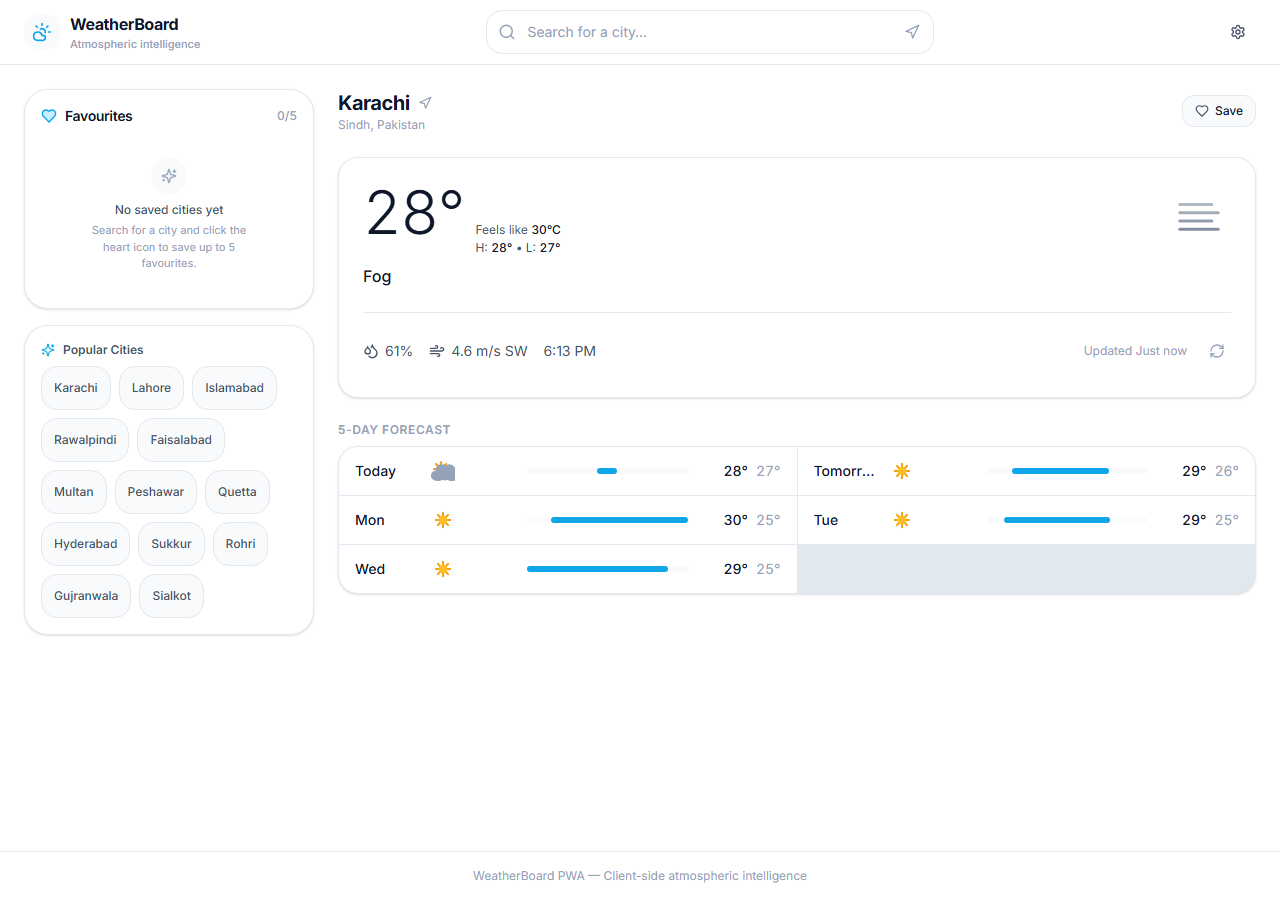
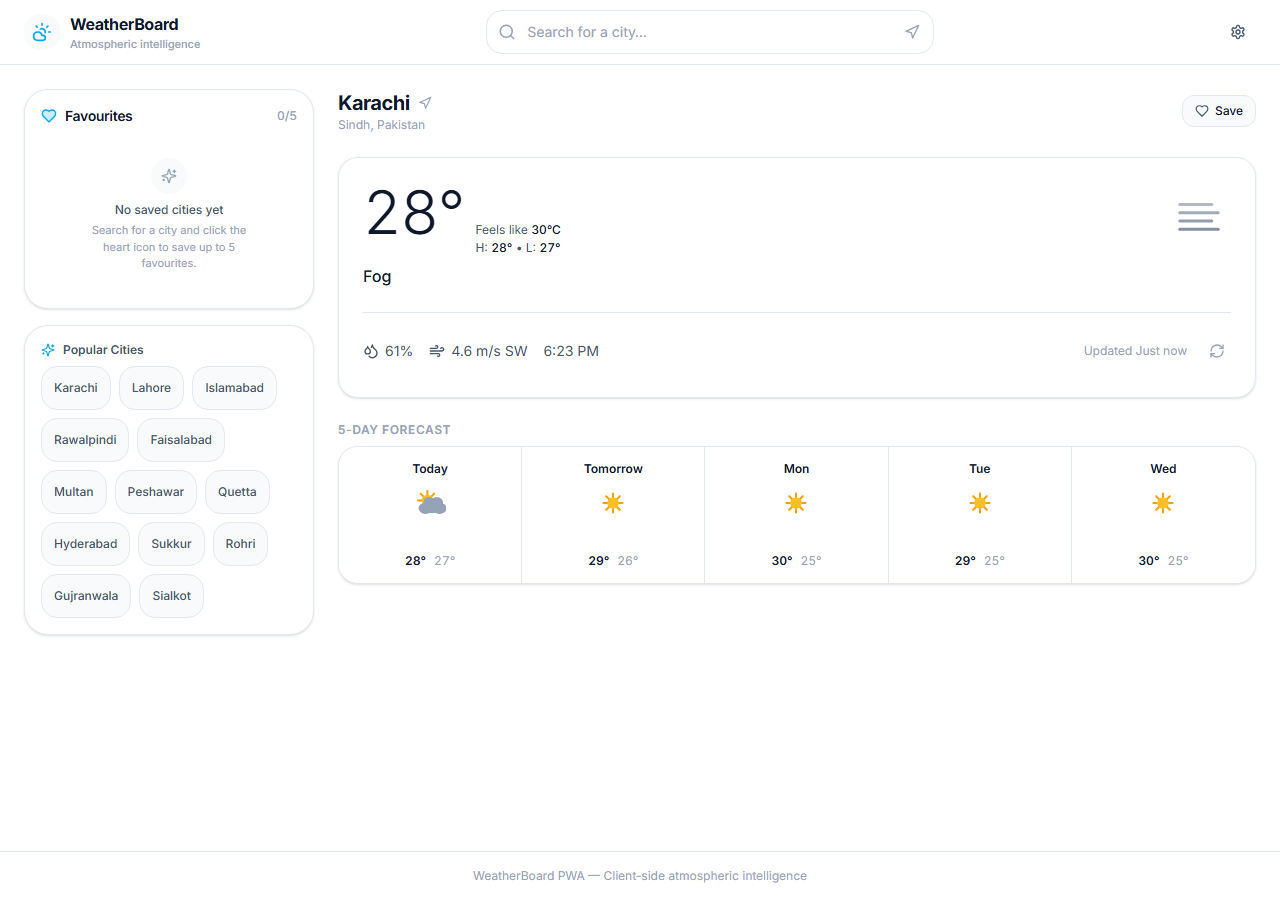
fix(layout): remove horizontal overflow and enlarge touch targets

diff --git a/src/components/weather/ForecastDay.tsx b/src/components/weather/ForecastDay.tsx
@@ -24,52 +24,89 @@ export function ForecastDay({
   );
 
   return (
-    <div
-      className={cn(
-        'flex items-center gap-2 sm:gap-3 px-3 sm:px-4 py-2.5 sm:py-3 text-sm transition-colors',
-        'hover:bg-[var(--color-surface-secondary)] min-w-0',
-      )}
-    >
-      {/* Day name */}
-      <span className="w-14 sm:w-16 shrink-0 text-xs sm:text-sm font-medium text-[var(--color-text-primary)] truncate">
-        {day.dayName}
-      </span>
+    <>
+      {/* Mobile view: detailed row with range bar */}
+      <div
+        className={cn(
+          'flex md:hidden items-center gap-2 sm:gap-3 px-3 sm:px-4 py-2.5 sm:py-3 text-sm transition-colors',
+          'hover:bg-[var(--color-surface-secondary)] min-w-0',
+        )}
+      >
+        {/* Day name */}
+        <span className="w-20 shrink-0 text-xs sm:text-sm font-medium text-[var(--color-text-primary)]">
+          {day.dayName}
+        </span>
 
-      {/* Icon */}
-      <div className="shrink-0">
-        <WeatherIcon condition={day.condition} isDay={day.isDay} size={24} />
-      </div>
+        {/* Icon */}
+        <div className="shrink-0">
+          <WeatherIcon condition={day.condition} isDay={day.isDay} size={24} />
+        </div>
 
-      {/* Precip chance */}
-      <div className="w-10 sm:w-12 shrink-0">
-        {day.precipChance > 0 ? (
-          <span className="inline-flex items-center gap-0.5 text-[11px] sm:text-xs text-primary-500 font-medium">
-            <Droplet className="h-3 w-3 fill-primary-500/20" />
-            <span>{day.precipChance}%</span>
+        {/* Precip chance */}
+        <div className="w-10 sm:w-12 shrink-0">
+          {day.precipChance > 0 ? (
+            <span className="inline-flex items-center gap-0.5 text-[11px] sm:text-xs text-primary-500 font-medium">
+              <Droplet className="h-3 w-3 fill-primary-500/20" />
+              <span>{day.precipChance}%</span>
+            </span>
+          ) : null}
+        </div>
+
+        {/* Temperature range bar */}
+        <div className="relative h-1.5 flex-1 min-w-[32px] sm:min-w-[48px] rounded-full bg-[var(--color-surface-secondary)]">
+          <div
+            className="absolute inset-y-0 rounded-full bg-primary-500"
+            style={{
+              left: `${left}%`,
+              width: `${width}%`,
+            }}
+          />
+        </div>
+
+        {/* High & Low grouped closely together */}
+        <div className="flex w-16 sm:w-20 shrink-0 items-center justify-end gap-1.5 sm:gap-2 text-right tabular-nums text-xs sm:text-sm">
+          <span className="font-medium text-[var(--color-text-primary)]">
+            {formatTemperature(day.high, unit)}
           </span>
-        ) : null}
+          <span className="text-[var(--color-text-tertiary)]">
+            {formatTemperature(day.low, unit)}
+          </span>
+        </div>
       </div>
 
-      {/* Temperature range bar */}
-      <div className="relative h-1.5 flex-1 min-w-[32px] sm:min-w-[48px] rounded-full bg-[var(--color-surface-secondary)]">
-        <div
-          className="absolute inset-y-0 rounded-full bg-primary-500"
-          style={{
-            left: `${left}%`,
-            width: `${width}%`,
-          }}
-        />
-      </div>
+      {/* Tablet & Desktop view: clean forecast card in row / grid */}
+      <div
+        className={cn(
+          'hidden md:flex flex-col items-center justify-between p-3.5 text-center transition-colors',
+          'hover:bg-[var(--color-surface-secondary)] h-full min-w-0',
+        )}
+      >
+        <span className="text-xs font-semibold text-[var(--color-text-primary)]">
+          {day.dayName}
+        </span>
 
-      {/* High & Low grouped closely together */}
-      <div className="flex w-16 sm:w-20 shrink-0 items-center justify-end gap-1.5 sm:gap-2 text-right tabular-nums text-xs sm:text-sm">
-        <span className="font-medium text-[var(--color-text-primary)]">
-          {formatTemperature(day.high, unit)}
-        </span>
-        <span className="text-[var(--color-text-tertiary)]">
-          {formatTemperature(day.low, unit)}
-        </span>
+        <div className="my-2.5">
+          <WeatherIcon condition={day.condition} isDay={day.isDay} size={32} />
+        </div>
+
+        <div className="h-4 mb-2 flex items-center justify-center">
+          {day.precipChance > 0 ? (
+            <span className="inline-flex items-center gap-0.5 text-[11px] text-primary-500 font-medium">
+              <Droplet className="h-3 w-3 fill-primary-500/20" />
+              <span>{day.precipChance}%</span>
+            </span>
+          ) : null}
+        </div>
+
+        <div className="flex items-center justify-center gap-2 tabular-nums text-xs">
+          <span className="font-semibold text-[var(--color-text-primary)]">
+            {formatTemperature(day.high, unit)}
+          </span>
+          <span className="text-[var(--color-text-tertiary)]">
+            {formatTemperature(day.low, unit)}
+          </span>
+        </div>
       </div>
-    </div>
+    </>
   );
 }

diff --git a/src/components/ui/Dialog.tsx b/src/components/ui/Dialog.tsx
@@ -41,7 +41,7 @@ const DialogContent = forwardRef<
     <DialogPrimitive.Content ref={ref} asChild {...props}>
       <motion.div
         className={cn(
-          'fixed inset-0 z-50 flex items-center justify-center p-4 sm:p-6',
+          'fixed inset-0 z-50 flex items-center justify-center p-3 sm:p-4 md:p-6 overflow-y-auto overscroll-contain',
         )}
         initial={{ opacity: 0 }}
         animate={{ opacity: 1 }}
@@ -50,11 +50,13 @@ const DialogContent = forwardRef<
       >
         <motion.div
           className={cn(
-            'relative w-full max-w-[480px] max-w-[calc(100vw-2rem)]',
-            'rounded-xl border border-[var(--color-border)]',
+            'relative my-auto w-full max-w-[480px] max-w-[calc(100vw-1.5rem)]',
+            'max-h-[calc(100dvh-1.5rem)] sm:max-h-[88dvh]',
+            'overflow-y-auto overscroll-contain',
+            'rounded-2xl sm:rounded-xl border border-[var(--color-border)]',
             'bg-[var(--color-surface)] text-[var(--color-text-primary)]',
-            'shadow-sm',
-            'p-5 sm:p-6',
+            'shadow-lg',
+            'p-4 sm:p-6',
             'focus:outline-none',
             className,
           )}
@@ -64,16 +66,16 @@ const DialogContent = forwardRef<
           transition={{ duration: 0.2, ease: 'easeOut' }}
           onClick={(e) => e.stopPropagation()}
         >
-          {children}
           {showClose && (
             <DialogPrimitive.Close
-              className="absolute right-2 top-2 sm:right-3 sm:top-3 min-h-11 min-w-11 flex items-center justify-center rounded-md text-[var(--color-text-tertiary)] hover:text-[var(--color-text-primary)] hover:bg-[var(--color-surface-secondary)] transition-colors focus-visible:outline-none focus-visible:ring-2 focus-visible:ring-primary-500/40"
+              className="sticky top-0 float-right -mr-1 -mt-1 sm:-mr-2 sm:-mt-2 z-20 min-h-11 min-w-11 flex items-center justify-center rounded-md bg-[var(--color-surface)]/90 backdrop-blur-sm text-[var(--color-text-tertiary)] hover:text-[var(--color-text-primary)] hover:bg-[var(--color-surface-secondary)] transition-colors focus-visible:outline-none focus-visible:ring-2 focus-visible:ring-primary-500/40"
               aria-label="Close dialog"
             >
               <X className="h-4 w-4" aria-hidden="true" />
               <span className="sr-only">Close</span>
             </DialogPrimitive.Close>
           )}
+          {children}
         </motion.div>
       </motion.div>
     </DialogPrimitive.Content>

diff --git a/src/components/settings/SettingsDialog.tsx b/src/components/settings/SettingsDialog.tsx
@@ -43,33 +43,33 @@ export function SettingsDialog({
 }: SettingsDialogProps) {
   return (
     <Dialog open={open} onOpenChange={onOpenChange}>
-      <DialogContent className="max-w-md p-6">
-        <div>
-          <DialogTitle className="text-lg font-semibold tracking-tight">Preferences</DialogTitle>
+      <DialogContent className="max-w-md">
+        <div className="pr-10">
+          <DialogTitle className="text-base sm:text-lg font-semibold tracking-tight">Preferences</DialogTitle>
           <DialogDescription className="text-xs text-[var(--color-text-secondary)] mt-0.5">
             Configure appearance, measurement units, and daily reminders.
           </DialogDescription>
         </div>
 
-        <div className="mt-6 space-y-6">
+        <div className="mt-4 sm:mt-6 space-y-4 sm:space-y-6">
           {/* Theme */}
-          <div className="flex flex-col sm:flex-row sm:items-center justify-between gap-2.5">
+          <div className="flex flex-col sm:flex-row sm:items-center justify-between gap-2">
             <div>
               <p className="text-sm font-medium text-[var(--color-text-primary)]">Theme</p>
               <p className="text-xs text-[var(--color-text-tertiary)]">Select interface color scheme</p>
             </div>
-            <ThemeToggle theme={theme} onChange={onThemeChange} className="w-full sm:w-auto justify-center" />
+            <ThemeToggle theme={theme} onChange={onThemeChange} className="w-full sm:w-auto" />
           </div>
 
           <div className="border-t border-[var(--color-border)]" />
 
           {/* Unit */}
-          <div className="flex flex-col sm:flex-row sm:items-center justify-between gap-2.5">
+          <div className="flex flex-col sm:flex-row sm:items-center justify-between gap-2">
             <div>
               <p className="text-sm font-medium text-[var(--color-text-primary)]">Temperature Units</p>
               <p className="text-xs text-[var(--color-text-tertiary)]">Convert all temperatures & wind speed</p>
             </div>
-            <UnitToggle unit={unit} onChange={onUnitChange} className="w-full sm:w-auto justify-center" />
+            <UnitToggle unit={unit} onChange={onUnitChange} className="w-full sm:w-auto" />
           </div>
 
           <div className="border-t border-[var(--color-border)]" />

diff --git a/src/components/settings/ThemeToggle.tsx b/src/components/settings/ThemeToggle.tsx
@@ -15,9 +15,9 @@ export const ThemeToggle: React.FC<ThemeToggleProps> = ({
   className,
 }) => {
   const options: { value: ThemeMode; label: string; icon: React.ReactNode }[] = [
-    { value: 'light', label: 'Light', icon: <Sun className="h-4 w-4" /> },
-    { value: 'dark', label: 'Dark', icon: <Moon className="h-4 w-4" /> },
-    { value: 'system', label: 'System', icon: <Monitor className="h-4 w-4" /> },
+    { value: 'light', label: 'Light', icon: <Sun className="h-4 w-4 shrink-0" /> },
+    { value: 'dark', label: 'Dark', icon: <Moon className="h-4 w-4 shrink-0" /> },
+    { value: 'system', label: 'System', icon: <Monitor className="h-4 w-4 shrink-0" /> },
   ];
 
   return (
@@ -25,7 +25,7 @@ export const ThemeToggle: React.FC<ThemeToggleProps> = ({
       role="radiogroup"
       aria-label="Theme selection"
       className={cn(
-        'inline-flex p-1 gap-2 rounded-xl bg-[var(--color-surface-secondary)] border border-[var(--color-border)]',
+        'flex w-full sm:w-auto p-1 gap-1 sm:gap-2 rounded-xl bg-[var(--color-surface-secondary)] border border-[var(--color-border)]',
         className,
       )}
     >
@@ -39,7 +39,7 @@ export const ThemeToggle: React.FC<ThemeToggleProps> = ({
             type="button"
             onClick={() => onChange(option.value)}
             className={cn(
-              'flex min-h-11 min-w-11 sm:min-h-9 items-center justify-center gap-2 rounded-lg px-3 py-2 text-xs font-medium transition-all outline-none',
+              'flex-1 min-w-0 flex min-h-11 sm:min-h-9 items-center justify-center gap-1.5 sm:gap-2 rounded-lg px-2 sm:px-3 py-2 text-xs font-medium transition-all outline-none',
               isSelected
                 ? 'bg-[var(--color-surface)] text-primary-500 shadow-sm border border-[var(--color-border)]'
                 : 'text-[var(--color-text-secondary)] hover:text-[var(--color-text-primary)]',
@@ -47,7 +47,7 @@ export const ThemeToggle: React.FC<ThemeToggleProps> = ({
             )}
           >
             {option.icon}
-            <span>{option.label}</span>
+            <span className="truncate">{option.label}</span>
           </button>
         );
       })}

diff --git a/src/components/settings/ReminderSettings.tsx b/src/components/settings/ReminderSettings.tsx
@@ -172,14 +172,14 @@ export function ReminderSettingsComponent({
             />
           </div>
 
-          <div className="flex flex-col sm:flex-row sm:items-center justify-between gap-2 pt-1">
+          <div className="flex flex-col sm:flex-row sm:items-center justify-between gap-2.5 pt-1">
             <span className="text-xs text-[var(--color-text-tertiary)]">Preview notification</span>
             <Button
               variant="secondary"
               size="sm"
               loading={testSending}
               onClick={handleSendTest}
-              className="min-h-11 min-w-11 px-3 text-xs"
+              className="min-h-11 min-w-11 px-3 text-xs w-full sm:w-auto justify-center"
             >
               <Send className="mr-1.5 h-3.5 w-3.5 shrink-0" />
               <span>Send test notification</span>
@@ -209,10 +209,10 @@ export function ReminderSettingsComponent({
             <button
               type="button"
               onClick={() => setShowTroubleshooting((prev) => !prev)}
-              className="min-h-11 flex items-center gap-1.5 text-xs text-[var(--color-text-tertiary)] hover:text-[var(--color-text-secondary)] transition-colors py-2"
+              className="min-h-11 flex items-center gap-1.5 text-xs text-[var(--color-text-tertiary)] hover:text-[var(--color-text-secondary)] transition-colors py-2 text-left w-full"
             >
               <HelpCircle className="h-3.5 w-3.5 shrink-0" />
-              <span>Notification not appearing? Troubleshooting tips</span>
+              <span className="text-left">Notification not appearing? Troubleshooting tips</span>
             </button>
 
             {showTroubleshooting && (

diff --git a/src/components/settings/UnitToggle.tsx b/src/components/settings/UnitToggle.tsx
@@ -23,7 +23,7 @@ export const UnitToggle: React.FC<UnitToggleProps> = ({
       role="radiogroup"
       aria-label="Temperature unit selection"
       className={cn(
-        'inline-flex p-1 gap-2 rounded-xl bg-[var(--color-surface-secondary)] border border-[var(--color-border)]',
+        'flex w-full sm:w-auto p-1 gap-1 sm:gap-2 rounded-xl bg-[var(--color-surface-secondary)] border border-[var(--color-border)]',
         className,
       )}
     >
@@ -37,7 +37,7 @@ export const UnitToggle: React.FC<UnitToggleProps> = ({
             type="button"
             onClick={() => onChange(option.value)}
             className={cn(
-              'flex min-h-11 min-w-11 sm:min-h-9 items-center justify-center gap-1.5 rounded-lg px-4 py-2 text-xs font-medium transition-all outline-none',
+              'flex-1 min-w-0 flex min-h-11 sm:min-h-9 items-center justify-center gap-1.5 rounded-lg px-3 sm:px-4 py-2 text-xs font-medium transition-all outline-none',
               isSelected
                 ? 'bg-[var(--color-surface)] text-primary-500 shadow-sm border border-[var(--color-border)]'
                 : 'text-[var(--color-text-secondary)] hover:text-[var(--color-text-primary)]',
@@ -45,7 +45,7 @@ export const UnitToggle: React.FC<UnitToggleProps> = ({
             )}
           >
             <span className="font-semibold text-sm">{option.symbol}</span>
-            <span>{option.label}</span>
+            <span className="truncate">{option.label}</span>
           </button>
         );
       })}

diff --git a/src/components/weather/ForecastList.tsx b/src/components/weather/ForecastList.tsx
@@ -24,9 +24,9 @@ export function ForecastList({ daily, unit }: ForecastListProps) {
       <h2 className="mb-2 text-xs font-semibold uppercase tracking-wider text-[var(--color-text-tertiary)]">
         {daily.length}-Day Forecast
       </h2>
-      <div className="overflow-hidden rounded-xl border border-[var(--color-border)] bg-[var(--color-surface)] divide-y md:divide-y-0 divide-[var(--color-border)] md:grid md:grid-cols-2 lg:grid-cols-1 xl:grid-cols-2 md:gap-px md:bg-[var(--color-border)] shadow-sm">
+      <div className="overflow-hidden rounded-xl border border-[var(--color-border)] bg-[var(--color-surface)] divide-y md:divide-y-0 md:divide-x divide-[var(--color-border)] md:grid md:grid-cols-5 shadow-sm">
         {daily.map((day, index) => (
-          <div key={day.date || `day-${index}`} className="bg-[var(--color-surface)]">
+          <div key={day.date || `day-${index}`} className="bg-[var(--color-surface)] h-full">
             <ForecastDay
               day={day}
               unit={unit}

diff --git a/src/components/settings/PermissionExplainer.tsx b/src/components/settings/PermissionExplainer.tsx
@@ -24,7 +24,7 @@ export function PermissionExplainer({ open, onOpenChange, onAllow }: PermissionE
 
   return (
     <Dialog open={open} onOpenChange={onOpenChange}>
-      <DialogContent className="max-w-md p-6">
+      <DialogContent className="max-w-md">
         <div className="flex items-center gap-3">
           <div className="flex h-9 w-9 shrink-0 items-center justify-center rounded-md bg-[var(--color-surface-secondary)] text-[var(--color-text-primary)]">
             <Bell className="h-4 w-4" />

diff --git a/src/components/weather/CurrentConditions.tsx b/src/components/weather/CurrentConditions.tsx
@@ -29,7 +29,7 @@ export function CurrentConditions({
   return (
     <section
       aria-label="Current weather conditions"
-      className="rounded-xl border border-[var(--color-border)] bg-[var(--color-surface)] p-6 shadow-sm"
+      className="rounded-xl border border-[var(--color-border)] bg-[var(--color-surface)] p-4 sm:p-6 shadow-sm"
     >
       {/* Main temperature + icon */}
       <div className="flex items-start justify-between gap-4">
